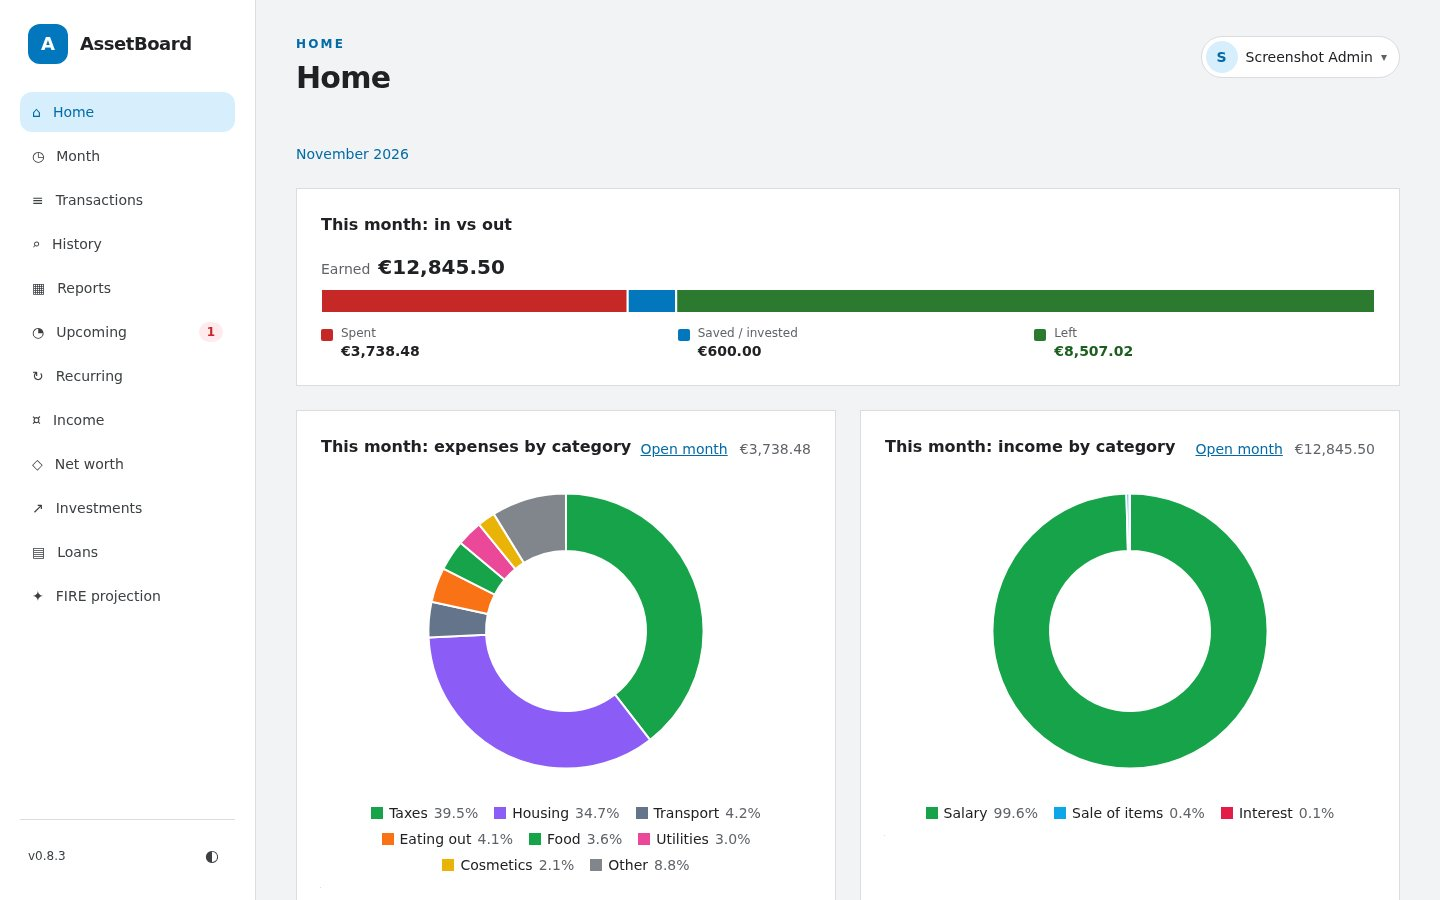
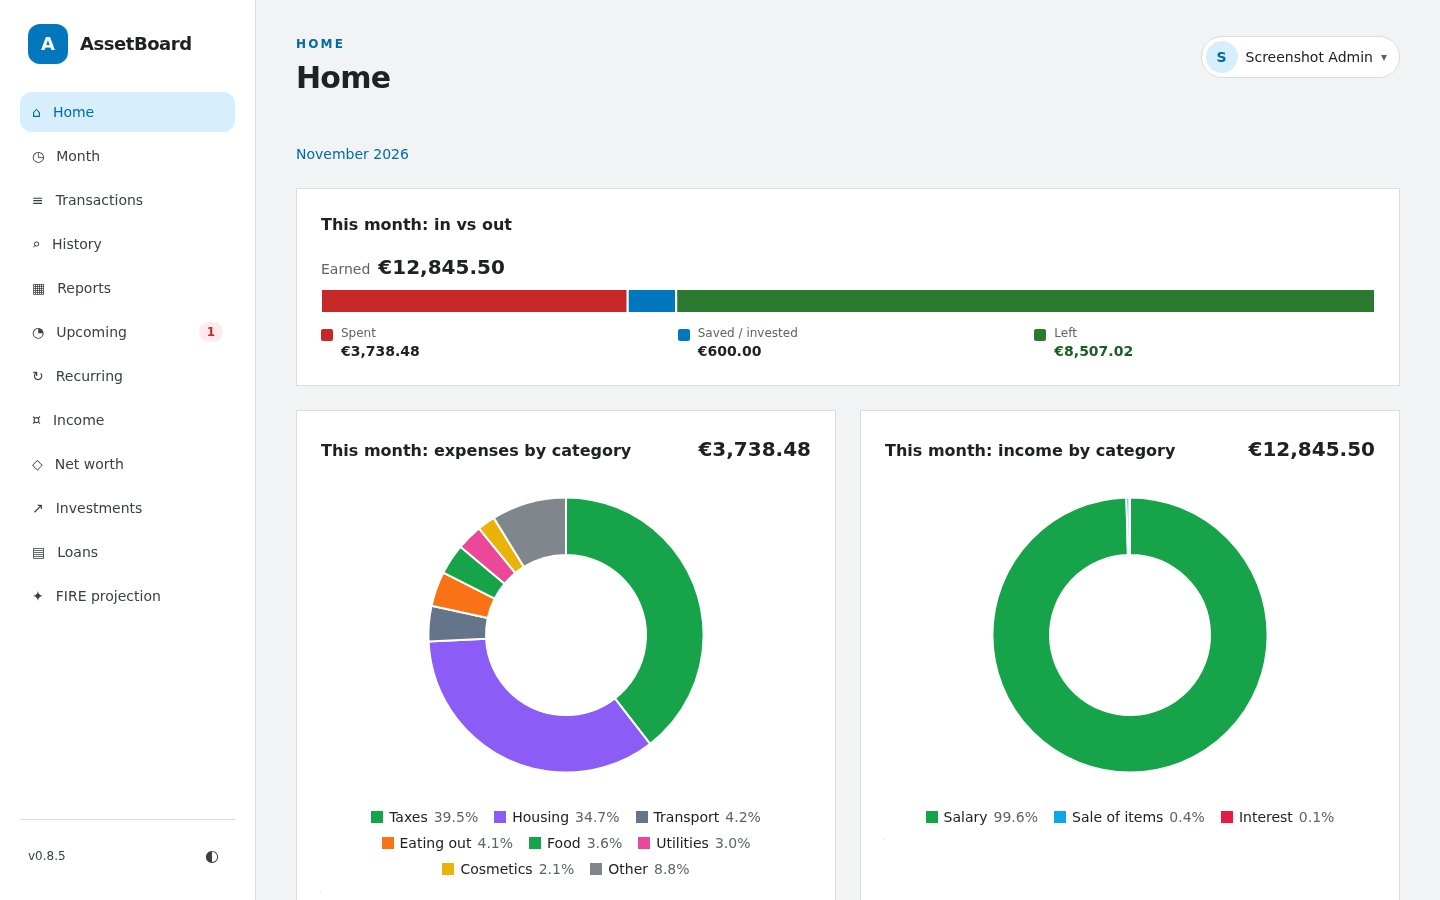
feat(home): make month category widget totals prominent (#429)

diff --git a/src/assetboard/web/templates/macros/charts.html b/src/assetboard/web/templates/macros/charts.html
@@ -6,10 +6,10 @@
    version): it wraps onto as many lines as it needs instead of ECharts' paged legend, in the
    slices' colours. Without JavaScript the table stays visible in place of the chart. No inline
    script or style. #}
-{% macro donut(d, label=None, compact=false, actions=none, inline_json=false, heading=none, link_url=none, link_label=none, widget_key=none, canvas_size=none) -%}
+{% macro donut(d, label=none, compact=false, actions=none, inline_json=false, heading=none, link_url=none, widget_key=none, canvas_size=none, total_prominent=false) -%}
 {% set wrapper_class = "min-w-0" if compact else "panel p-4 sm:p-6" %}
 {% set heading_class = "text-sm font-semibold" if compact else "text-base font-semibold" %}
-{% set total_class = "text-xs tabular-nums text-muted" if compact else "text-sm tabular-nums text-muted" %}
+{% set total_class = "text-xl font-semibold tabular-nums" if total_prominent else ("text-xs tabular-nums text-muted" if compact else "text-sm tabular-nums text-muted") %}
 {% set chart_size = canvas_size or ("compact" if compact else "regular") %}
 {% set canvas_class = "mt-2 h-40 w-full" if chart_size == "compact" else "mt-3 h-80 w-full" %}
 {% set legend_class = "mt-2 flex flex-wrap justify-center gap-x-3 gap-y-1.5 text-xs" if compact else "mt-3 flex flex-wrap justify-center gap-x-4 gap-y-1.5 text-sm" %}
@@ -21,7 +21,6 @@
     <h2 id="chart-{{ d.key }}-heading" class="{{ heading_class }}">{% if link_url %}<a href="{{ link_url }}" class="underline-offset-2 hover:underline">{{ chart_heading }}</a>{% else %}{{ chart_heading }}{% endif %}</h2>
     <div class="flex flex-wrap items-end justify-end gap-3">
       {% if actions %}{{ actions }}{% endif %}
-      {% if link_url and link_label %}<a href="{{ link_url }}" class="text-sm font-medium text-primary-ink underline">{{ link_label }}</a>{% endif %}
       {% if d.slices %}<p class="{{ total_class }}" data-chart-total>{{ d.total }}</p>{% endif %}
     </div>
   </div>

diff --git a/src/assetboard/web/templates/dashboard/widgets/month_expenses.html b/src/assetboard/web/templates/dashboard/widgets/month_expenses.html
@@ -1,6 +1,6 @@
 {% from "macros/charts.html" import donut as chart_donut with context %}
 {% if donut %}
-{{ chart_donut(donut, inline_json=true, heading=widget_title, link_url=module_url, link_label=_("Open month"), widget_key="month-expenses") }}
+{{ chart_donut(donut, inline_json=true, heading=widget_title, link_url=module_url, widget_key="month-expenses", total_prominent=true) }}
 {% else %}
 <section class="panel p-4 sm:p-6" data-home-widget="month-expenses" aria-labelledby="widget-month-expenses-heading">
   <h2 id="widget-month-expenses-heading" class="text-base font-semibold"><a href="{{ module_url }}" class="underline-offset-2 hover:underline">{{ widget_title }}</a></h2>

diff --git a/src/assetboard/web/templates/dashboard/widgets/month_income.html b/src/assetboard/web/templates/dashboard/widgets/month_income.html
@@ -1,6 +1,6 @@
 {% from "macros/charts.html" import donut as chart_donut with context %}
 {% if donut %}
-{{ chart_donut(donut, inline_json=true, heading=widget_title, link_url=module_url, link_label=_("Open month"), widget_key="month-income") }}
+{{ chart_donut(donut, inline_json=true, heading=widget_title, link_url=module_url, widget_key="month-income", total_prominent=true) }}
 {% else %}
 <section class="panel p-4 sm:p-6" data-home-widget="month-income" aria-labelledby="widget-month-income-heading">
   <h2 id="widget-month-income-heading" class="text-base font-semibold"><a href="{{ module_url }}" class="underline-offset-2 hover:underline">{{ widget_title }}</a></h2>

diff --git a/tests/web/test_f91_dashboard_routes.py b/tests/web/test_f91_dashboard_routes.py
@@ -378,6 +378,9 @@ def test_month_widgets_render_actual_data(owner: OwnerApp) -> None:
     income = _fragment(owner, "month-income")
     income_data = _chart_data(income)
     assert [slice_["name"] for slice_ in income_data["slices"]] == ["Salary"]
+    for fragment in (expenses, income):
+        assert "Open month" not in fragment
+        assert 'class="text-xl font-semibold tabular-nums" data-chart-total' in fragment
 
     plan = _fragment(owner, "month-plan")
     assert "data-forecast-line" in plan and "Forecast spent" in plan
